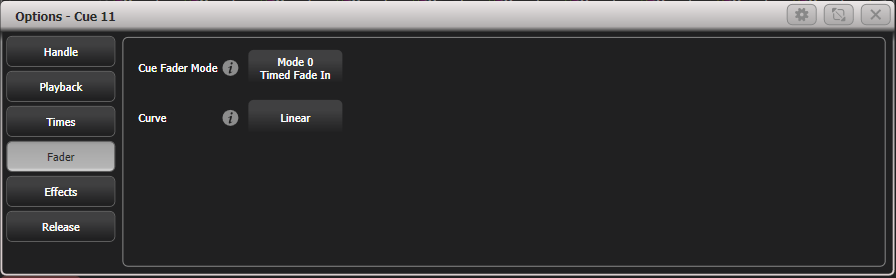
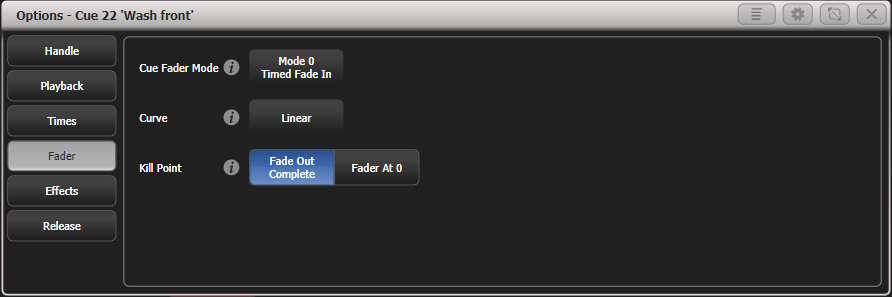
Add fader kill point option for cue, fixes #324

diff --git a/docs/cues/playback-options.md b/docs/cues/playback-options.md
@@ -148,13 +148,12 @@ Sets how the fader position affects the cue output.
 
 Setting | Action
 ------: | ------
-Mode 0 | Channels fade in as set by the fade time. The Fade Out time is ignored. If times are set to zero, the HTP channels fade in with the 0-100% position of the playback fader and the LTP channels will snap.
+**Mode 0** | Channels fade in as set by the fade time. The Fade Out time is ignored. If times are set to zero, the HTP channels fade in with the 0-100% position of the playback fader and the LTP channels will snap.
 Mode 1 | HTP channels fade in and out as set by the fade out times (LTP channels fade in but then remain as set in the cue). If times are set to zero, the HTP levels will fade in and out with the fader and the LTP channels will snap when the cue is fired.
 Mode 2 | Both HTP and LTP channels follow the fader position. *Useful when used with a pan/tilt cue for manually tracking a spot across a stage or down a catwalk using the fader position or for mixing colours on RGB fixtures.*
 Mode 3 | Crossfade cue. All channels, including intensity channels, will fade to the settings in the new cue. All other cues fade out and all other active playbacks become inactive; if you need to re-fire a playback, take the fader to zero and put it up again. *Useful for setting a video playback state.*
 
-This is the same option as set in the [\[Edit Times\]
-menu](cue-timing.md).
+This is the same as the [Fade Mode](cue-timing.md/#fade-modes) option in the \[Edit Times\] menu.
 
 [](https://youtu.be/2fwM5S8nX3k?t=20 "Playback Modes")
 
@@ -162,6 +161,14 @@ menu](cue-timing.md).
 Allows you to set a different curve shape for this playback - curves
 are listed on the softkeys. The various curves are illustrated
 in the [Curves](../system-settings/curves.md) section.
+
+### Kill Point
+Sets where the console will start the Release process on this cue, causing LTP channels to be released back to their previous state. Normally this is set to happen when all fades have completed so the fixture won't change until it has dimmed to zero.
+
+Setting | Action
+------: | ------
+**Fade Out Complete** | The cue is killed when all fades have completed.
+Fader at 0 | The cue is killed when the fader reaches zero.
 
 --- 
 
